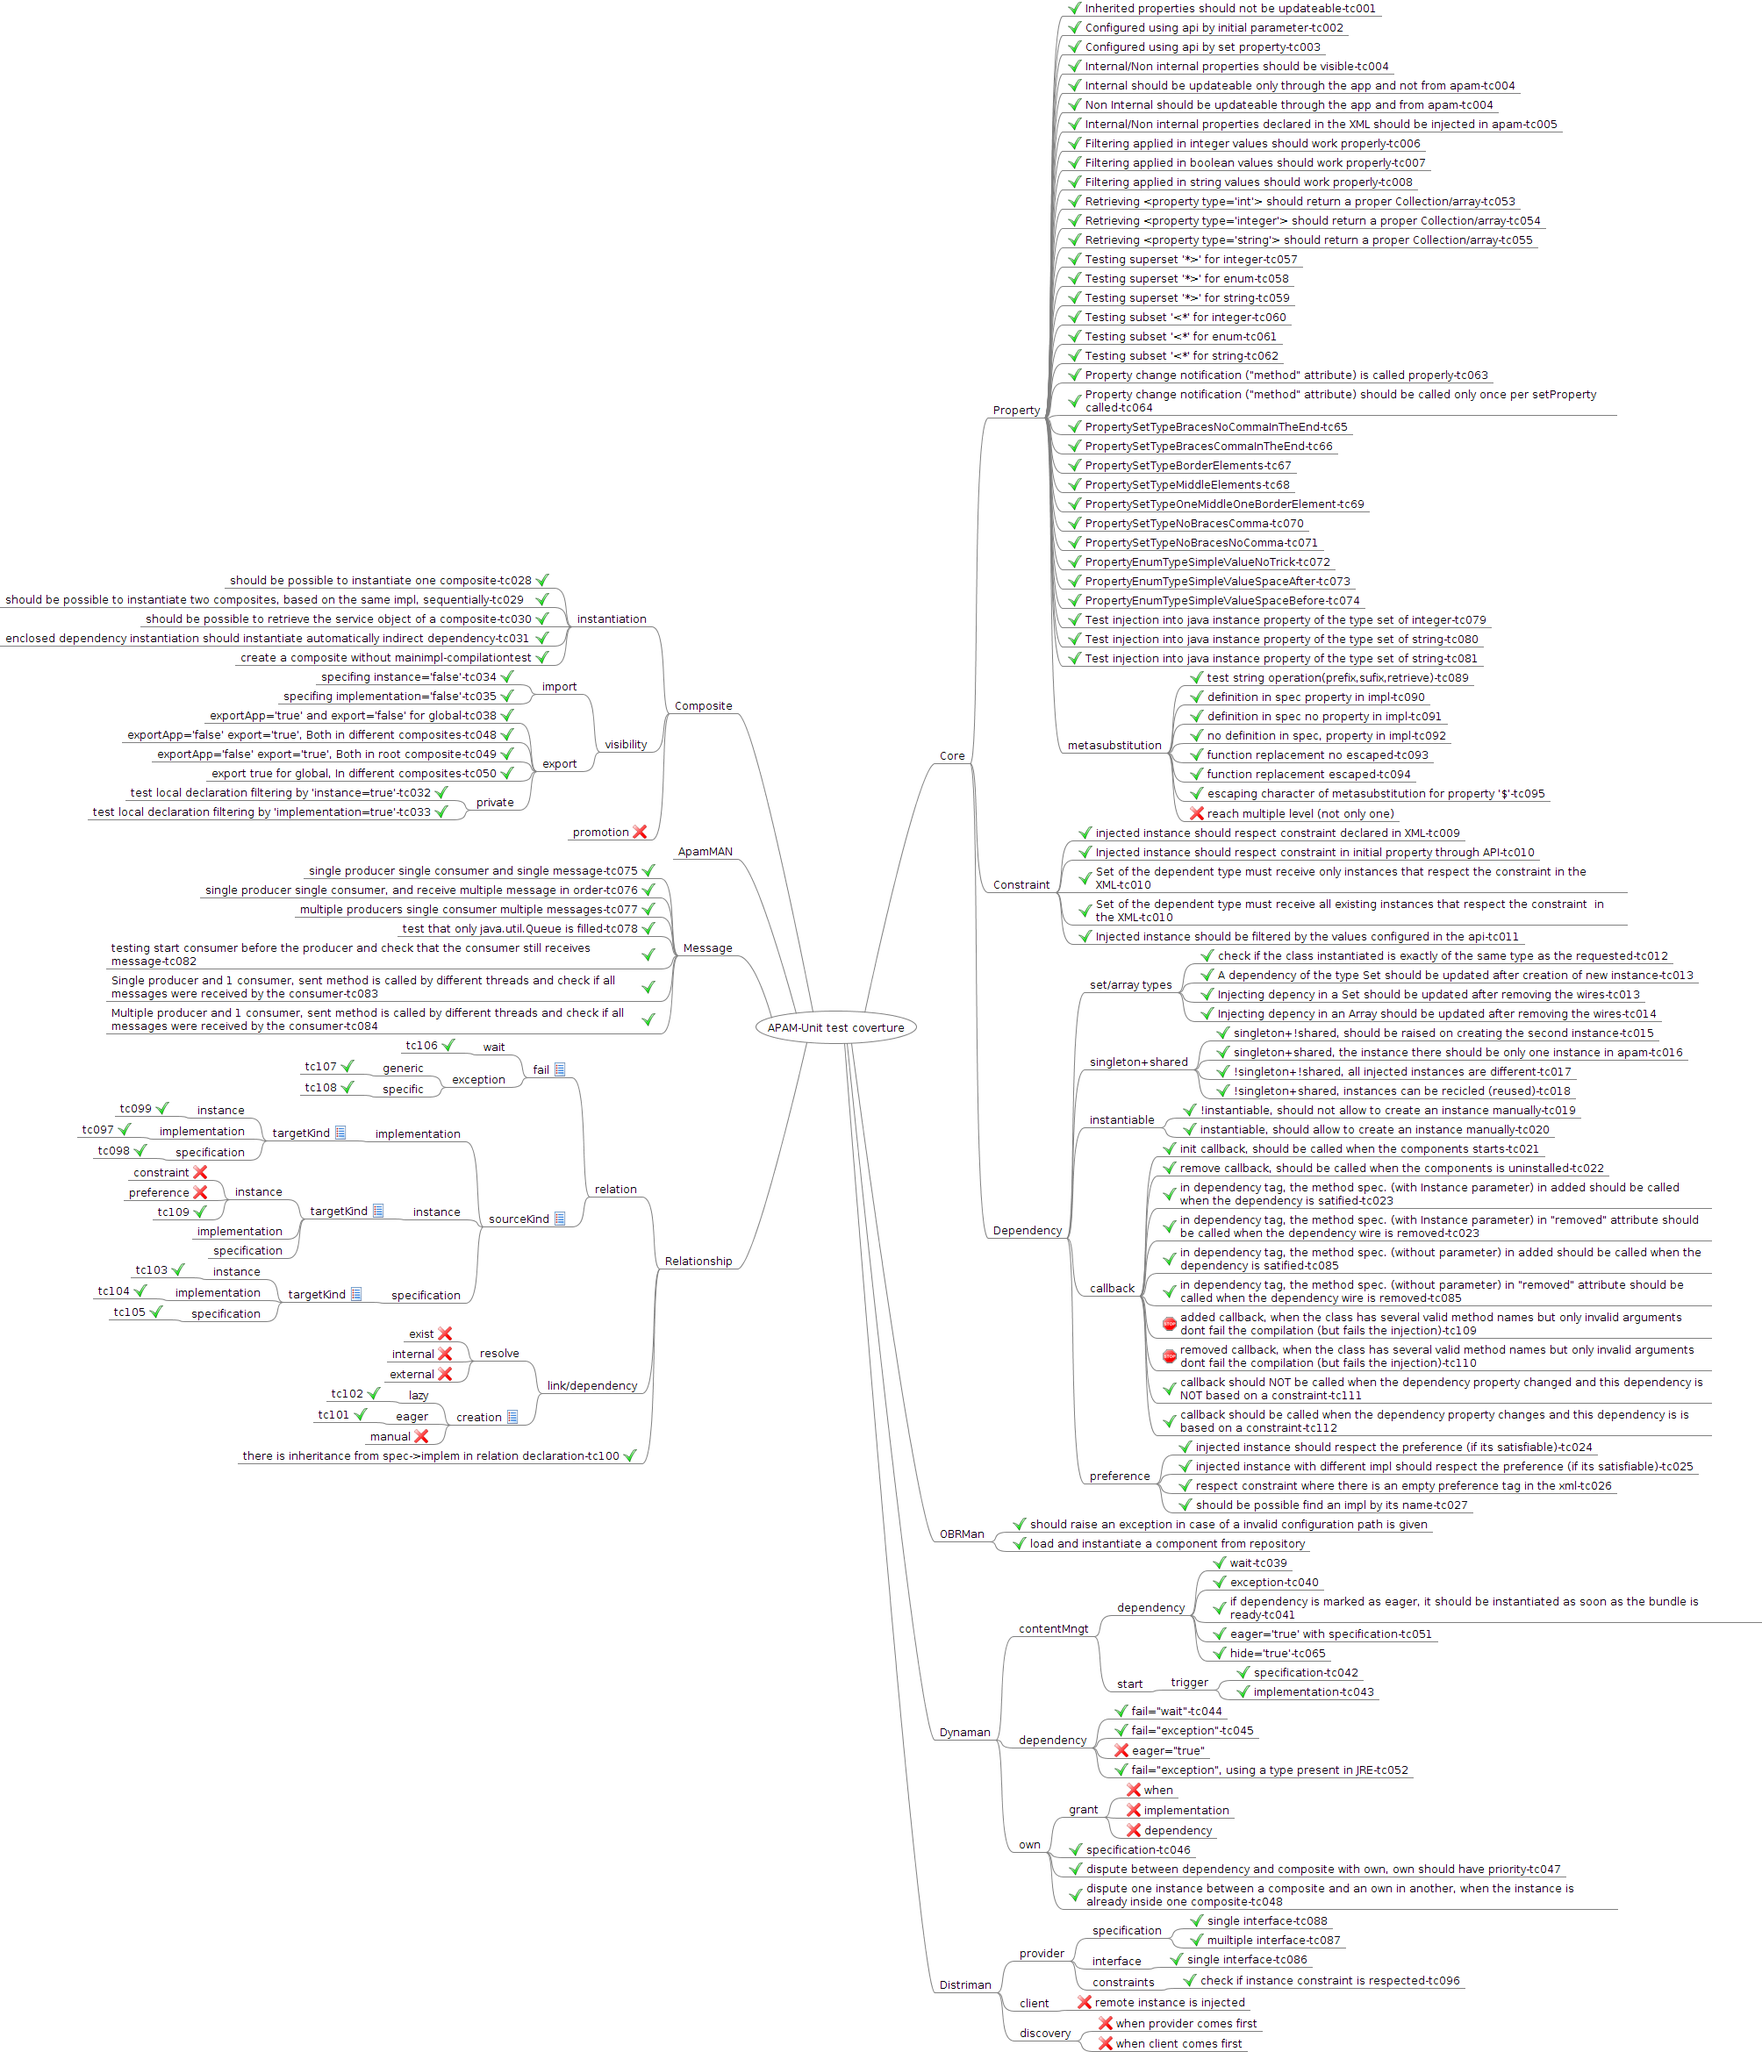
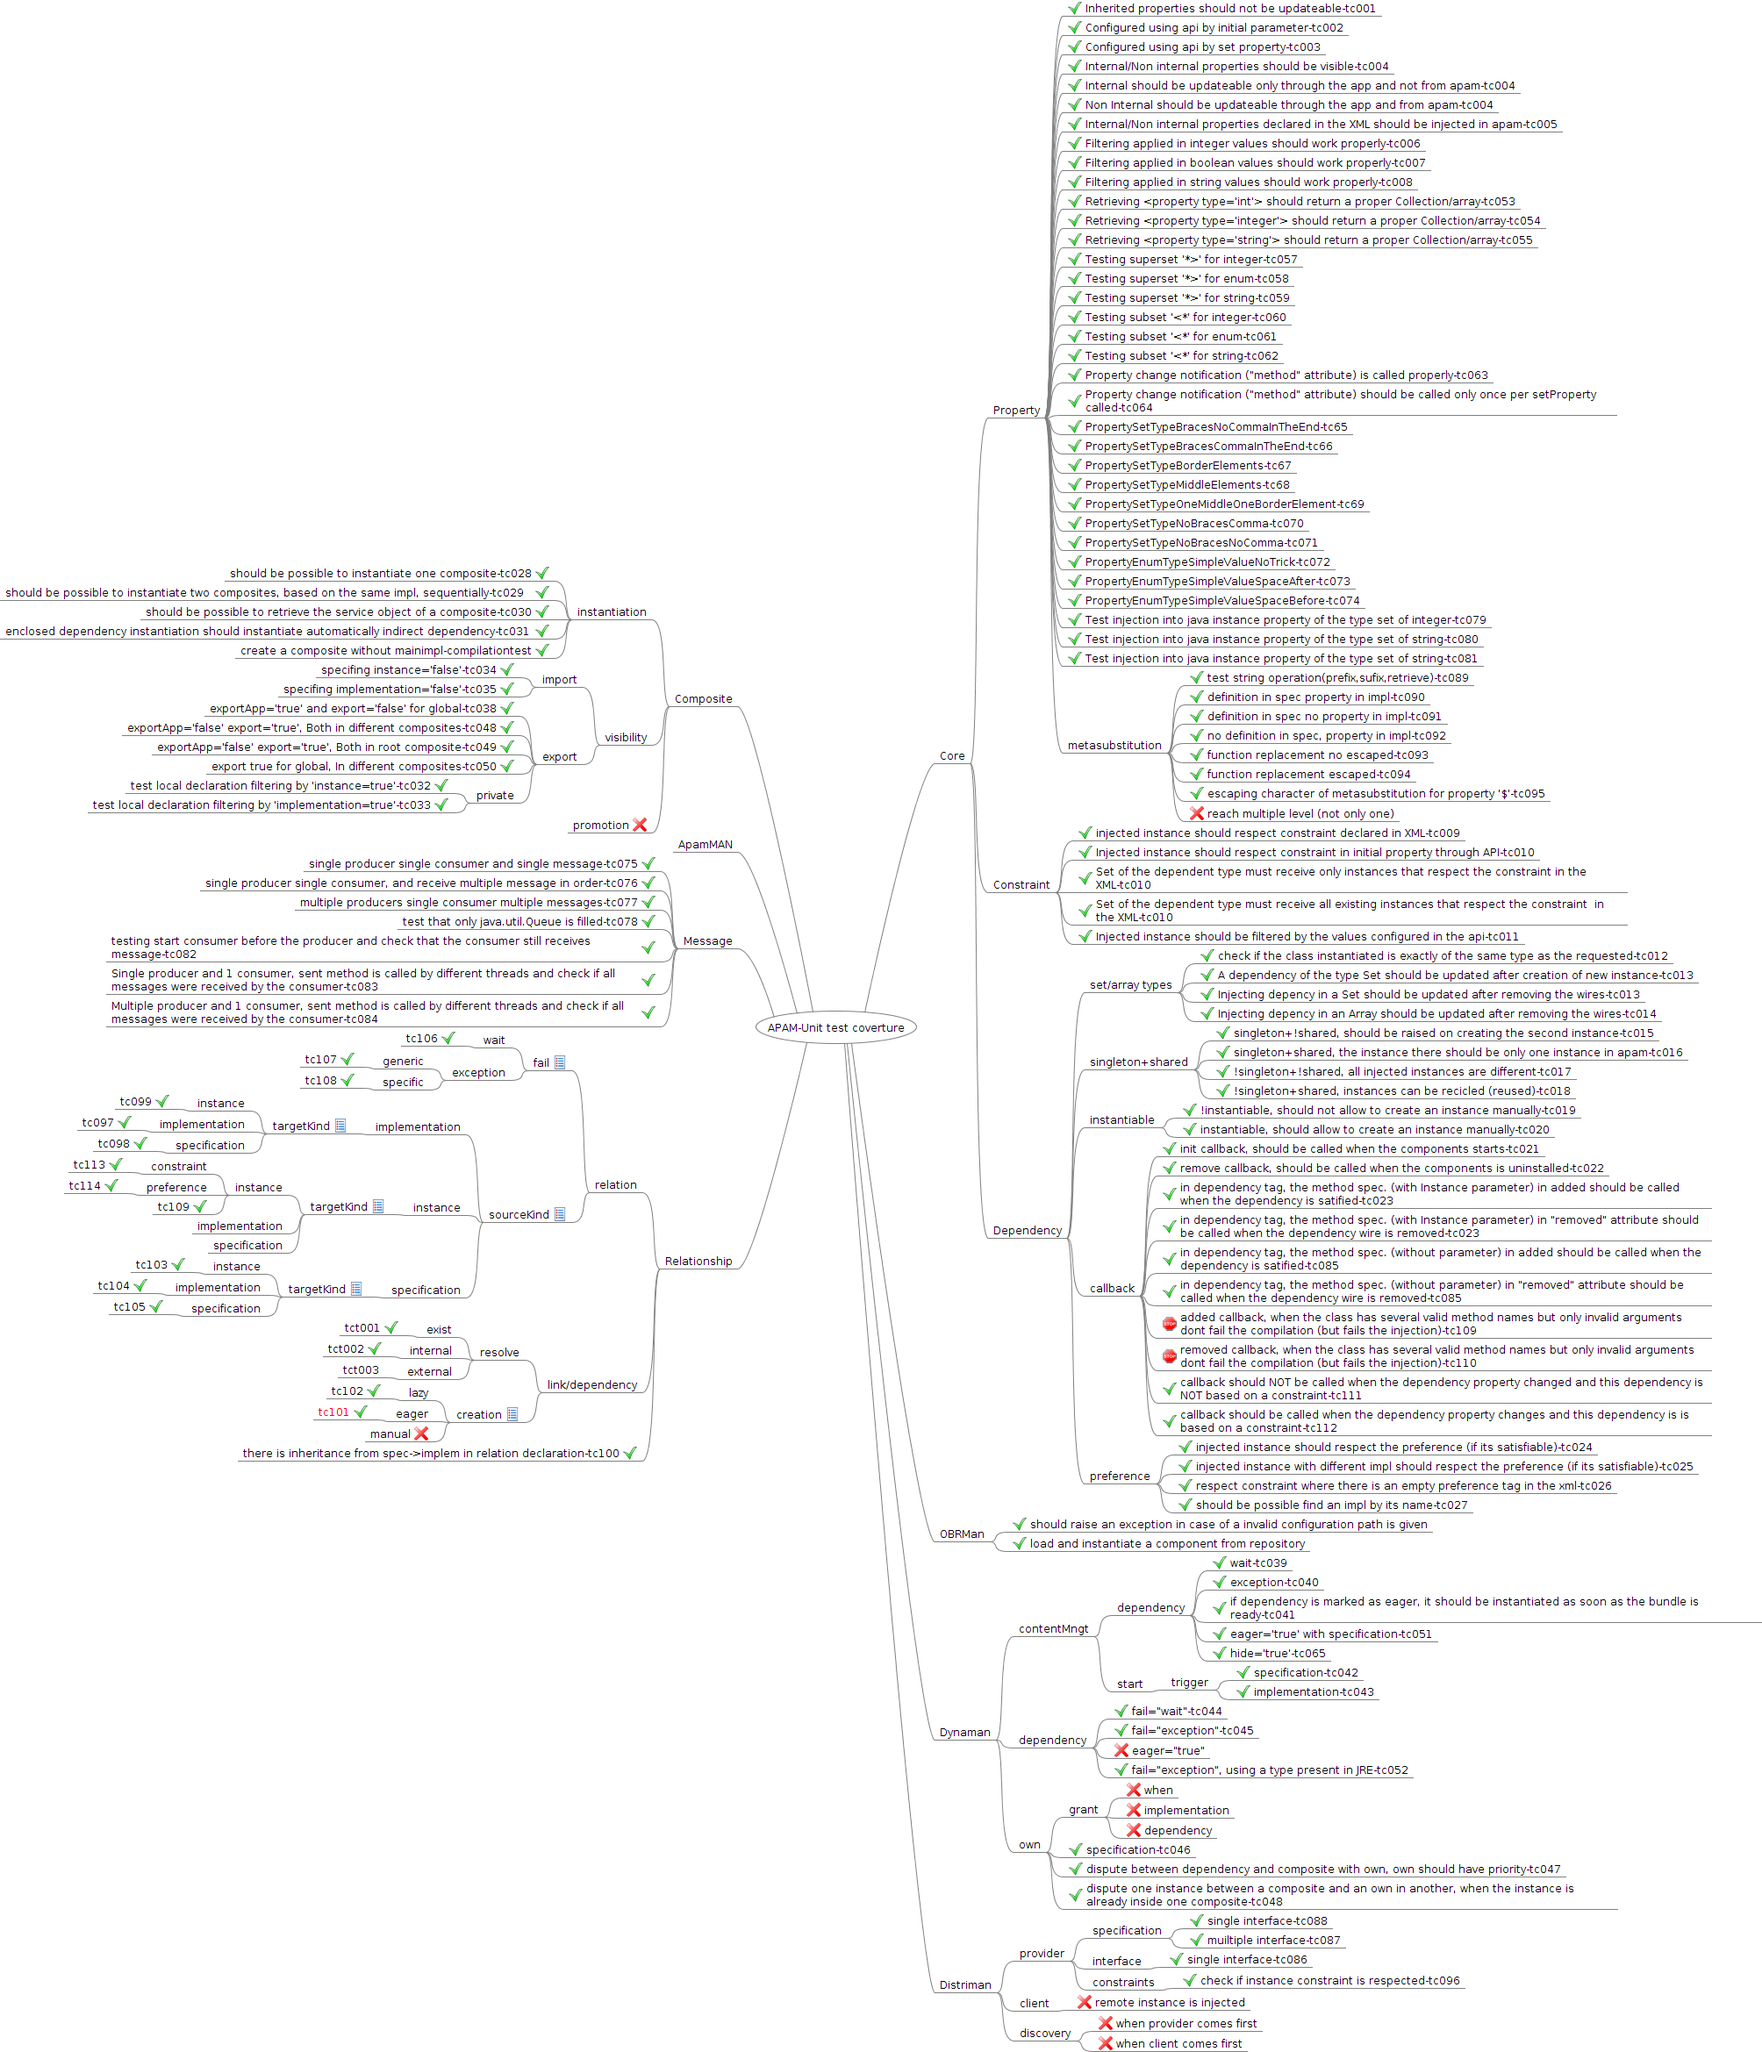
adding tc 114

Changed region(s): [[0.0, 0.2809, 0.4323, 0.7178], [0.3396, 0.5618, 0.3705, 0.593]]

diff --git a/tests/pax-test/src/test/java/fr/imag/adele/apam/test/testcases/RelationTest.java b/tests/pax-test/src/test/java/fr/imag/adele/apam/test/testcases/RelationTest.java
@@ -37,6 +37,7 @@ import fr.imag.adele.apam.pax.test.implS7.S07ImplementationImporter11;
 import fr.imag.adele.apam.pax.test.implS7.S07ImplementationImporter12;
 import fr.imag.adele.apam.pax.test.implS7.S07ImplementationImporter13;
 import fr.imag.adele.apam.pax.test.implS7.S07ImplementationImporter15;
+import fr.imag.adele.apam.pax.test.implS7.S07ImplementationImporter17;
 import fr.imag.adele.apam.tests.helpers.ExtensionAbstract;
 
 @RunWith(JUnit4TestRunner.class)
@@ -548,10 +549,10 @@ public class RelationTest extends ExtensionAbstract {
 		Implementation implementationTarget = CST.apamResolver.findImplByName(null,
 				"S07-implementation-15");
 		
-		Instance instance01=implementation.createInstance(null, new HashMap<String, String>(){{put("criteria","do-not-take-this-instance");}});
-		Instance instance02=implementation.createInstance(null, new HashMap<String, String>(){{put("criteria","neither-this");}});
-		Instance instance03=implementation.createInstance(null, new HashMap<String, String>(){{put("criteria","the-chosen-one");}});
-		Instance instance04=implementation.createInstance(null, new HashMap<String, String>(){{put("criteria","ignore-this");}});
+		Instance instanceInvalid01=implementation.createInstance(null, new HashMap<String, String>(){{put("criteria","do-not-take-this-instance");}});
+		Instance instanceInvalid02=implementation.createInstance(null, new HashMap<String, String>(){{put("criteria","neither-this");}});
+		Instance instanceValid=implementation.createInstance(null, new HashMap<String, String>(){{put("criteria","the-chosen-one");}});
+		Instance instanceInvalid04=implementation.createInstance(null, new HashMap<String, String>(){{put("criteria","ignore-this");}});
 
 		Instance instanceTarget=implementationTarget.createInstance(null, null);
 		
@@ -559,7 +560,32 @@ public class RelationTest extends ExtensionAbstract {
 		
 		Instance instanceInjected=auxListInstanceReferencedBy(implem.getInjected());
 		
-		Assert.assertTrue("Using <relation/> element in metadata to inject a dependency, the constraint filter was not respect as expected.",instanceInjected==instance03);
+		Assert.assertTrue("Using <relation/> element in metadata to inject a dependency, the constraint filter was not respect as expected.",instanceInjected==instanceValid);
+		 
+	}
+	
+	@Test
+	public void RelationPreferencesForSourceInstanceTargetInstance_tc114(){
+		
+		Implementation implementation = CST.apamResolver.findImplByName(null,
+				"S07-DependencyImpl");
+		
+		Implementation implementationTarget = CST.apamResolver.findImplByName(null,
+				"S07-implementation-17");
+		
+		Instance instanceInvalid01=implementation.createInstance(null, new HashMap<String, String>(){{put("criteria","do-not-take-this-instance");}});
+		Instance instanceInvalid02=implementation.createInstance(null, new HashMap<String, String>(){{put("criteria","neither-this");}});
+		Instance instanceValid01=implementation.createInstance(null, new HashMap<String, String>(){{put("criteria","the-chosen-one");}});
+		Instance instanceValid02=implementation.createInstance(null, new HashMap<String, String>(){{put("criteria","the-chosen-one");}});
+		Instance instanceInvalid03=implementation.createInstance(null, new HashMap<String, String>(){{put("criteria","ignore-this");}});
+
+		Instance instanceTarget=implementationTarget.createInstance(null, null);
+		
+		S07ImplementationImporter17 implem=(S07ImplementationImporter17)instanceTarget.getServiceObject();
+		
+		Instance instanceInjected=auxListInstanceReferencedBy(implem.getInjected());
+		
+		Assert.assertTrue("Using <relation/> element in metadata to inject a dependency, the preference filter was not respect as expected.",instanceInjected==instanceValid01||instanceInjected==instanceValid02);
 		 
 	}
 	

diff --git a/documentations/technical/test-coverture/APAM-UnitTest-Coverture-OnFreeMindApp.mm b/documentations/technical/test-coverture/APAM-UnitTest-Coverture-OnFreeMindApp.mm
@@ -470,11 +470,15 @@
 <node CREATED="1372768328285" ID="ID_1141166594" MODIFIED="1372768578769" TEXT="targetKind">
 <icon BUILTIN="list"/>
 <node CREATED="1372768336910" ID="ID_1440659865" MODIFIED="1372768339040" TEXT="instance">
-<node CREATED="1372768460062" ID="ID_241198248" MODIFIED="1374223242227" TEXT="constraint">
-<icon BUILTIN="button_cancel"/>
+<node CREATED="1372768460062" ID="ID_241198248" MODIFIED="1374484684611" TEXT="constraint">
+<node CREATED="1374484675844" ID="ID_594831335" MODIFIED="1374484681875" TEXT="tc113">
+<icon BUILTIN="button_ok"/>
 </node>
-<node CREATED="1372768466174" ID="ID_592739735" MODIFIED="1374223621796" TEXT="preference">
-<icon BUILTIN="button_cancel"/>
+</node>
+<node CREATED="1372768466174" ID="ID_592739735" MODIFIED="1374485284010" TEXT="preference">
+<node CREATED="1374485277261" ID="ID_132869833" MODIFIED="1374485281282" TEXT="tc114">
+<icon BUILTIN="button_ok"/>
+</node>
 </node>
 <node CREATED="1372776456639" ID="ID_525077534" MODIFIED="1372777403370" TEXT="tc109">
 <icon BUILTIN="button_ok"/>

diff --git a/tests/helpers/src/main/java/fr/imag/adele/apam/tests/helpers/ExtensionAbstract.java b/tests/helpers/src/main/java/fr/imag/adele/apam/tests/helpers/ExtensionAbstract.java
@@ -293,7 +293,7 @@ public abstract class ExtensionAbstract extends TestUtils {
 				mavenBundle("fr.imag.adele.apam.tests.services","apam-pax-samples-impl-s2").versionAsInProject(),
 				mavenBundle("fr.imag.adele.apam.tests.services","apam-pax-samples-impl-s3").versionAsInProject(),
 				mavenBundle("fr.imag.adele.apam.tests.services","apam-pax-samples-impl-s6").versionAsInProject(),
-				mavenBundle("fr.imag.adele.apam.tests.services","apam-pax-samples-impl-s7").versionAsInProject(),
+				//mavenBundle("fr.imag.adele.apam.tests.services","apam-pax-samples-impl-s7").versionAsInProject(),
 								
 				mavenBundle("fr.imag.adele.apam.tests.messages","apam-pax-samples-msg").versionAsInProject(),
 				mavenBundle("fr.imag.adele.apam.tests.messages","apam-pax-samples-impl-m1").versionAsInProject());
